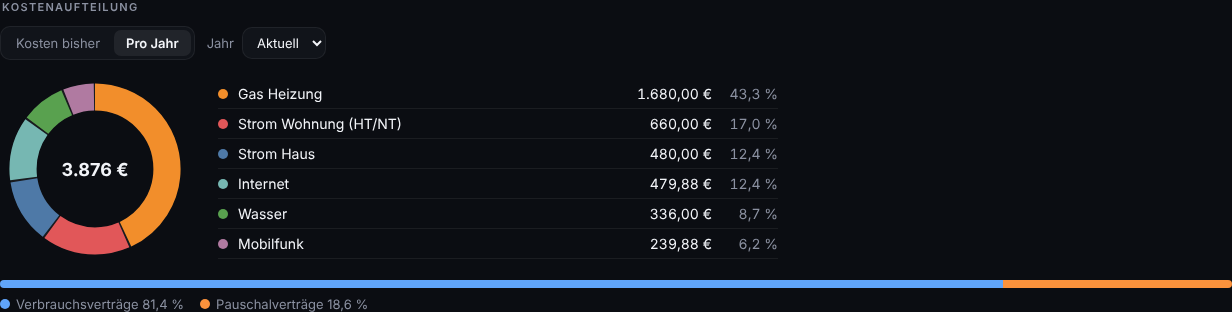
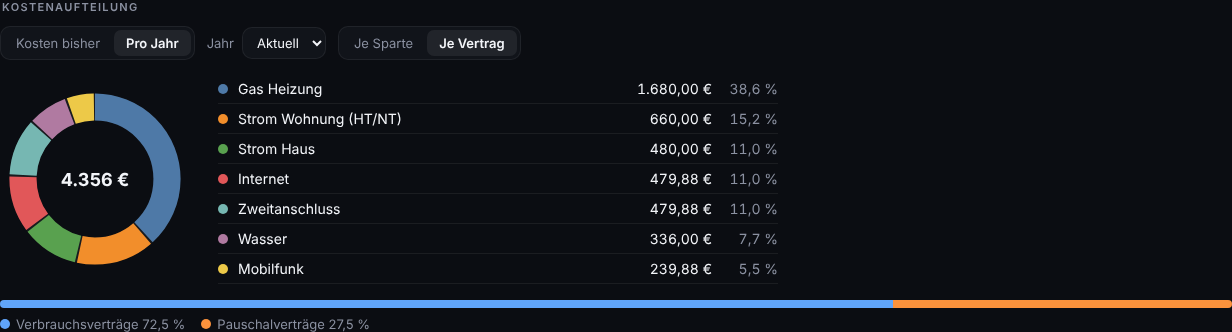
New category Streaming; the cost split adds up contracts of one category (1.28.0-rc.9) (#72)
* New category Streaming (1.28.0-rc.9)

Claude-Session: https://claude.ai/code/session_011wNPKqgRVqpMfNb2Np7XaH

* The cost split adds up contracts of the same category (1.28.0-rc.9)

Claude-Session: https://claude.ai/code/session_011wNPKqgRVqpMfNb2Np7XaH

---------

diff --git a/custom_components/tariffy/frontend/tariffy-panel.js b/custom_components/tariffy/frontend/tariffy-panel.js
@@ -111,7 +111,7 @@ const I18N = {
     onceName: "Description", onceAmount: "Amount (+ credit, − bill)", onceDate: "Date", onceDelete: "Delete item", onceDeleteAsk: "Delete this item?", onceDeleteYes: "Yes, delete", onceSum: "Net",
     termErr_invalid_bezeichnung: "Enter a description.", termErr_invalid_betrag: "Enter an amount other than zero (with a minus for a bill).",
     minTerm: "Minimum term", noticePeriod: "Notice period", cancelBy: "Cancel by", untilDate: "until {d}",
-    chartTitle: "Cost split", chartSoFar: "Cost so far", chartYear: "Per year", chartMetered: "Consumption contracts", chartFlat: "Flat-rate contracts", chartEmpty: "Nothing to show yet.", chartYearLabel: "Year", chartYearAll: "Current", chartYearHint: "The cost of this calendar year; earlier terms count for their days in it.",
+    chartTitle: "Cost split", chartSoFar: "Cost so far", chartYear: "Per year", chartMetered: "Consumption contracts", chartFlat: "Flat-rate contracts", chartEmpty: "Nothing to show yet.", chartBySparte: "By category", chartByContract: "By contract", chartYearLabel: "Year", chartYearAll: "Current", chartYearHint: "The cost of this calendar year; earlier terms count for their days in it.",
     hintCatchUp: "Today {v} behind, made up by the instalment before the contract ends.", hintUsedUp: "Today {v} ahead, used up before the contract ends.",
     grandTotal: "Overall", groupMetered: "Metered contracts", groupFlat: "Flat-rate contracts", noEnd: "No contract end", overTerm: "{v} over the contract term",
     dlgTitleCreate: "New contract", dlgCreated: "The contract was created.",
@@ -136,7 +136,7 @@ const I18N = {
     adviceNone: "No instalment needed: the credit covers the costs until the contract ends", adviceOk: "The instalment fits",
     sparte: {
       electricity: "Electricity", electricity_ht_nt: "Electricity HT/NT", gas: "Gas",
-      water: "Water", internet: "Internet", mobile: "Mobile", insurance: "Insurance", other: "Other",
+      water: "Water", internet: "Internet", mobile: "Mobile", streaming: "Streaming", insurance: "Insurance", other: "Other",
     },
     versicherungsart: {
       car: "Car", house: "Building / house", household: "Household contents", liability: "Liability",
@@ -246,7 +246,7 @@ const I18N = {
     onceName: "Bezeichnung", onceAmount: "Betrag (+ Gutschrift, − Rechnung)", onceDate: "Datum", onceDelete: "Posten löschen", onceDeleteAsk: "Diesen Posten löschen?", onceDeleteYes: "Ja, löschen", onceSum: "Saldo",
     termErr_invalid_bezeichnung: "Trage eine Bezeichnung ein.", termErr_invalid_betrag: "Trage einen Betrag ungleich null ein (mit Minus für eine Rechnung).",
     minTerm: "Mindestlaufzeit", noticePeriod: "Kündigungsfrist", cancelBy: "Kündigen bis", untilDate: "bis {d}",
-    chartTitle: "Kostenaufteilung", chartSoFar: "Kosten bisher", chartYear: "Pro Jahr", chartMetered: "Verbrauchsverträge", chartFlat: "Pauschalverträge", chartEmpty: "Noch nichts darzustellen.", chartYearLabel: "Jahr", chartYearAll: "Aktuell", chartYearHint: "Die Kosten dieses Kalenderjahres; frühere Laufzeiten zählen anteilig für ihre Tage darin.",
+    chartTitle: "Kostenaufteilung", chartSoFar: "Kosten bisher", chartYear: "Pro Jahr", chartMetered: "Verbrauchsverträge", chartFlat: "Pauschalverträge", chartEmpty: "Noch nichts darzustellen.", chartBySparte: "Je Sparte", chartByContract: "Je Vertrag", chartYearLabel: "Jahr", chartYearAll: "Aktuell", chartYearHint: "Die Kosten dieses Kalenderjahres; frühere Laufzeiten zählen anteilig für ihre Tage darin.",
     hintCatchUp: "Heute {v} im Rückstand, bis Vertragsende durch den Abschlag ausgeglichen.", hintUsedUp: "Heute {v} im Plus, bis Vertragsende aufgebraucht.",
     grandTotal: "Gesamt", groupMetered: "Verbrauchsverträge", groupFlat: "Pauschalverträge", noEnd: "Kein Vertragsende", overTerm: "{v} über die Laufzeit",
     dlgTitleCreate: "Neuer Vertrag", dlgCreated: "Der Vertrag wurde angelegt.",
@@ -271,7 +271,7 @@ const I18N = {
     adviceNone: "Kein Abschlag nötig: Das Guthaben deckt die Kosten bis Vertragsende", adviceOk: "Der Abschlag passt",
     sparte: {
       electricity: "Strom", electricity_ht_nt: "Strom HT/NT", gas: "Gas",
-      water: "Wasser", internet: "Internet", mobile: "Mobilfunk", insurance: "Versicherung", other: "Sonstiges",
+      water: "Wasser", internet: "Internet", mobile: "Mobilfunk", streaming: "Streaming", insurance: "Versicherung", other: "Sonstiges",
     },
     versicherungsart: {
       car: "Auto (Kfz)", house: "Gebäude / Haus", household: "Hausrat", liability: "Haftpflicht",
@@ -304,6 +304,10 @@ const ICONS = {
   mobile: [
     ["rect", { x: "7", y: "2.500", width: "10", height: "19", rx: "2.500" }],
     ["path", { d: "M11 18.500h2" }],
+  ],
+  streaming: [
+    ["rect", { x: "3", y: "5", width: "18", height: "14", rx: "3" }],
+    ["path", { d: "M10 9.500v5l4.500-2.500z" }],
   ],
   insurance: [["path", { d: "M12 2.500 20 5.500v6c0 5-3.500 8.500-8 10.500-4.500-2-8-5.500-8-10.500v-6z" }]],
   // actions of the contract list
@@ -408,7 +412,7 @@ section.card .foot { padding-top: 12px; }
   background: var(--tile); border: 1px solid var(--tile-line); color: var(--blue); }
 .badge svg { width: 22px; height: 22px; fill: none; stroke: currentColor; stroke-width: 1.7; stroke-linecap: round; stroke-linejoin: round; }
 .badge.gas { color: var(--orange); } .badge.water { color: #38bdf8; } .badge.electricity,
-.badge.electricity_ht_nt { color: var(--gold); } .badge.internet { color: #a78bfa; } .badge.mobile { color: var(--green); }
+.badge.electricity_ht_nt { color: var(--gold); } .badge.internet { color: #a78bfa; } .badge.mobile { color: var(--green); } .badge.streaming { color: #f472b6; }
 .title { font-size: 17px; font-weight: 700; line-height: 1.2; }
 .meta { font-size: 13px; color: var(--muted); margin-top: 2px; }
 .who { min-width: 0; flex: 1; }
@@ -2289,8 +2293,16 @@ class TariffyPanel extends HTMLElement {
       return isNum(v) && v > 0 ? v : 0;
     };
     const currency = contracts[0].currency || "EUR";
-    const items = contracts.map((c, i) => ({ c, v: value(c), color: CHART_COLORS[i % CHART_COLORS.length] }))
-      .filter((it) => it.v > 0.005).sort((a, b) => b.v - a.v);
+    const grouped = this._costGroup !== "contract"; // by category unless "per contract" is chosen
+    const perContract = contracts.map((c) => ({ label: c.title, sparte: c.sparte, currency: c.currency, n: 1, v: value(c) }))
+      .filter((it) => it.v > 0.005);
+    const merged = new Map(); // contracts of one category count together
+    for (const it of perContract) {
+      const old = merged.get(it.sparte);
+      if (old) { old.v += it.v; old.n += 1; } else merged.set(it.sparte, { ...it, label: this._t("sparte")[it.sparte] || it.sparte });
+    }
+    const items = (grouped ? [...merged.values()] : perContract).sort((a, b) => b.v - a.v)
+      .map((it, i) => ({ ...it, color: CHART_COLORS[i % CHART_COLORS.length] }));
     const total = items.reduce((s, it) => s + it.v, 0);
     const toggle = h("div", { class: "seg", role: "group" }, [["sofar", "chartSoFar"], ["year", "chartYear"]].map(([key, label]) => h("button", {
       class: year === null && basis === key ? "on" : "", type: "button", "aria-pressed": String(year === null && basis === key), text: this._t(label),
@@ -2303,9 +2315,13 @@ class TariffyPanel extends HTMLElement {
         onchange: (ev) => { this._costYear = ev.target.value ? Number(ev.target.value) : null; this._render(); },
       }, [h("option", { value: "", text: this._t("chartYearAll") })].concat(
         years.map((y) => h("option", { value: String(y), text: String(y), selected: y === year ? "" : null }))))) : null;
+    const groupToggle = h("div", { class: "seg", role: "group" }, [["sparte", "chartBySparte"], ["contract", "chartByContract"]].map(([key, label]) => h("button", {
+      class: (grouped ? "sparte" : "contract") === key ? "on" : "", type: "button", "aria-pressed": String((grouped ? "sparte" : "contract") === key), text: this._t(label),
+      onclick: () => { this._costGroup = key; this._render(); },
+    })));
     const card = h("section", { class: "chart" },
       h("h3", { class: "group-title" }, h("span", { text: this._t("chartTitle") })),
-      h("div", { class: "chart-ctl" }, toggle, picker),
+      h("div", { class: "chart-ctl" }, toggle, picker, groupToggle),
       year !== null ? h("p", { class: "hint", text: this._t("chartYearHint") }) : null);
     if (!total) {
       card.appendChild(h("div", { class: "hint", text: this._t("chartEmpty") }));
@@ -2326,14 +2342,14 @@ class TariffyPanel extends HTMLElement {
     const ring = svg("svg", { viewBox: "0 0 42 42", class: "cs-ring", role: "img", "aria-label": this._t("chartTitle") },
       svg("circle", { cx: "21", cy: "21", r: "15.9155", fill: "none", stroke: "rgba(255,255,255,.06)", "stroke-width": "6" }), slices);
     const kinds = [["chartMetered", (c) => METERED.has(c.sparte)], ["chartFlat", (c) => !METERED.has(c.sparte)]]
-      .map(([label, test]) => ({ label, v: items.filter((it) => test(it.c)).reduce((s, it) => s + it.v, 0) })).filter((k) => k.v > 0);
+      .map(([label, test]) => ({ label, v: items.filter((it) => test(it)).reduce((s, it) => s + it.v, 0) })).filter((k) => k.v > 0);
     card.appendChild(h("div", { class: "chart-body" },
       h("div", { class: "cs-ringwrap" }, ring,
         h("div", { class: "cs-mid" }, h("b", { text: this._money(total, currency, { digits: 0 }) }))),
       h("ul", { class: "cs-legend" }, items.map((it) => h("li", {},
         h("span", { class: "cs-dot", style: `background:${it.color}` }),
-        h("span", { class: "nm", text: it.c.title }),
-        h("span", { class: "val", text: this._money(it.v, it.c.currency, { digits: 2 }) }),
+        h("span", { class: "nm", text: it.n > 1 ? `${it.label} (${it.n})` : it.label }),
+        h("span", { class: "val", text: this._money(it.v, it.currency, { digits: 2 }) }),
         h("span", { class: "pct", text: percent(it.v) }))))));
     if (kinds.length > 1) {
       card.appendChild(h("div", { class: "kindbar" },

diff --git a/tests/test_reconfigure.py b/tests/test_reconfigure.py
@@ -85,7 +85,7 @@ async def test_the_form_offers_the_name_first_with_the_current_one(frontend_env,
     assert str(first) == "name" and first.default() == "Test"
 
 
-@pytest.mark.parametrize("sparte", ["electricity", "gas", "internet", "mobile"])
+@pytest.mark.parametrize("sparte", ["electricity", "gas", "internet", "mobile", "streaming"])
 async def test_the_name_can_be_changed(frontend_env, contract, hass, sparte):  # noqa: F811
     from homeassistant.helpers import device_registry as dr, entity_registry as er
 

diff --git a/tests/test_insurance.py b/tests/test_insurance.py
@@ -149,7 +149,7 @@ async def test_a_car_insurance_may_leave_the_car_details_empty(hass):
     assert result["data"]["versicherungsart"] == "car"
 
 
-@pytest.mark.parametrize("sparte", ["internet", "mobile", "other"])
+@pytest.mark.parametrize("sparte", ["internet", "mobile", "streaming", "other"])
 async def test_other_flat_rate_contracts_go_straight_to_the_costs(hass, sparte):
     result = await _start(hass, sparte)
     assert result["step_id"] == "pauschal"

diff --git a/custom_components/tariffy/const.py b/custom_components/tariffy/const.py
@@ -238,6 +238,7 @@ SPARTEN = [
     "water",
     "internet",
     "mobile",
+    "streaming",
     SPARTE_INSURANCE,
     "other",
 ]

diff --git a/docs/wiki/Panel.md b/docs/wiki/Panel.md
@@ -19,7 +19,7 @@ Das Panel folgt der Sprache von Home Assistant (Deutsch, sonst Englisch) und pas
 | Ansicht | Inhalt |
 |---|---|
 | **Übersicht** | Oben vier Kacheln: die **Abschläge pro Monat** (mit Jahreswert und einem Balken, der Verbrauchs- und Pauschalverträge aufteilt), die **Kosten bisher** (mit den bis heute fälligen Abschlägen und dem Saldo), die **Prognose zum Vertragsende** (mit der Prognose je Vertrag, die schlechteste zuerst; nur Verträge mit Verbrauchsmessung) und die **nächsten Termine** (Kündigungsfrist, Wechsel, Vertragsende). Darunter zwei Gruppen mit je einer Karte pro Vertrag: **Verbrauchsverträge** (Strom, Gas, Wasser) und **Pauschalverträge** (Internet, Mobilfunk, Versicherung, Sonstiges). Die Karten sind nach dem Zustand getönt (grün Guthaben, rot Nachzahlung, orange Kündigung fällig). Eine Verbrauchskarte zeigt die Prognose zum Vertragsende als große Zahl neben dem Laufzeit-Ring, höchstens drei Zahlen (Kosten bisher, Saldo heute, Verbrauch), die gezahlten Abschläge gegen die Kosten, die Restlaufzeit und Hinweise. Zeigen der Saldo heute und die Prognose in verschiedene Richtungen (Rückstand heute, Guthaben zum Vertragsende), steht darunter, warum. Eine Pauschalkarte zeigt den Abschlag pro Monat, die Kosten bisher und das Vertragsende samt Laufzeit-Balken, ohne Ring und ohne Verbrauch. In der Übersicht gibt es keine Bearbeitungs-Aktionen. |
-| **Kosten** | Oben die **Kostenaufteilung**: ein Ringdiagramm mit dem Anteil jedes Vertrags (umschaltbar zwischen **Kosten bisher** und **Pro Jahr**; die **Jahresauswahl** zeigt die Kosten eines Kalenderjahres für alle Jahre mit Daten, auch aus der Historie und von archivierten Verträgen, wobei eine Laufzeit über mehrere Jahre anteilig nach Tagen zählt) und ein Balken für die Aufteilung zwischen Verbrauchs- und Pauschalverträgen. Darunter zwei Tabellen wie in der Übersicht. **Verbrauchsverträge:** Kosten bisher, Saldo heute, Saldo zum Vertragsende, Abschlag und empfohlener Abschlag. **Pauschalverträge:** Kosten bisher (die bis heute fälligen Abschläge), Restlaufzeit, Vertragsende und Abschlag; Saldo und Prognose gibt es dort nicht. Beide Tabellen haben dasselbe Spaltenraster, „Kosten bisher“ und „Abschlag“ stehen also untereinander. Jede Tabelle hat eine Summenzeile, darunter steht die Gesamtsumme. |
+| **Kosten** | Oben die **Kostenaufteilung**: ein Ringdiagramm mit dem Anteil jeder **Sparte** (Verträge gleicher Sparte werden zusammengezählt, der Umschalter **Je Vertrag** zeigt jeden einzeln; umschaltbar zwischen **Kosten bisher** und **Pro Jahr**; die **Jahresauswahl** zeigt die Kosten eines Kalenderjahres für alle Jahre mit Daten, auch aus der Historie und von archivierten Verträgen, wobei eine Laufzeit über mehrere Jahre anteilig nach Tagen zählt) und ein Balken für die Aufteilung zwischen Verbrauchs- und Pauschalverträgen. Darunter zwei Tabellen wie in der Übersicht. **Verbrauchsverträge:** Kosten bisher, Saldo heute, Saldo zum Vertragsende, Abschlag und empfohlener Abschlag. **Pauschalverträge:** Kosten bisher (die bis heute fälligen Abschläge), Restlaufzeit, Vertragsende und Abschlag; Saldo und Prognose gibt es dort nicht. Beide Tabellen haben dasselbe Spaltenraster, „Kosten bisher“ und „Abschlag“ stehen also untereinander. Jede Tabelle hat eine Summenzeile, darunter steht die Gesamtsumme. |
 | **Verträge** | In denselben zwei Gruppen pro Vertrag aufklappbare Details: Vertragsdaten, Preise, Verbrauch, Empfehlungen. Hier stehen auch **alle Aktionen, die einen Vertrag ändern**, als Symbole in jeder Zeile (Kalender: Folgevertrag planen oder bearbeiten, Stift: Vertrag bearbeiten) und oben der Button **Neuer Vertrag** (nur Administratoren). |
 | **Historie** | Die **früheren Laufzeiten** jedes Vertrags (Zeitraum, Anbieter, Tarif, Abschlag, Kosten, Verbrauch und Saldo am Ende) und die **archivierten Verträge**. Wer keinen Folgevertrag hatte und keinen Vertrag archiviert hat, sieht hier zunächst nur einen kurzen Hinweis. |
 | **Sicherung** | Nur für Administratoren: **Sicherung herunterladen**, **aus Datei wiederherstellen** und die **gelöschten Verträge** der letzten 30 Tage zurückholen (siehe unten). |
@@ -57,7 +57,7 @@ Die normalen Backups von Home Assistant sichern Tariffy schon vollständig mit. 
 
 ## Pauschalvertrag verlängern
 
-Bei Verträgen ohne Verbrauch (Versicherung, Internet, Mobilfunk, Sonstiges), die ein **Vertragsende** haben, steht in jeder Zeile des Tabs **Verträge** ein Symbol **Vertrag verlängern** (zwei Pfeile im Kreis, nur Administratoren). Der Dialog schlägt vor: Beginn am Tag nach dem bisherigen Ende, neues Ende ein Jahr später, Zahlweise und Betrag wie bisher. Du trägst zum Beispiel den neuen Beitrag ein, und der Dialog zeigt sofort, um wie viel Prozent der Vertrag teurer oder günstiger wird (verglichen pro Monat). Mit **Verlängern** passiert Folgendes:
+Bei Verträgen ohne Verbrauch (Versicherung, Internet, Mobilfunk, Streaming, Sonstiges), die ein **Vertragsende** haben, steht in jeder Zeile des Tabs **Verträge** ein Symbol **Vertrag verlängern** (zwei Pfeile im Kreis, nur Administratoren). Der Dialog schlägt vor: Beginn am Tag nach dem bisherigen Ende, neues Ende ein Jahr später, Zahlweise und Betrag wie bisher. Du trägst zum Beispiel den neuen Beitrag ein, und der Dialog zeigt sofort, um wie viel Prozent der Vertrag teurer oder günstiger wird (verglichen pro Monat). Mit **Verlängern** passiert Folgendes:
 
 - Die bisherige Laufzeit kommt in die **Historie** (Zeitraum, Anbieter, Tarif, Abschlag, gezahlte Abschläge). So entsteht pro Jahr ein Eintrag und man sieht, wie der Beitrag steigt.
 - Der Vertrag läuft mit dem neuen Beginn, Ende und Betrag weiter. Anbieter, Tarif, Kundennummer und alles andere bleiben.
@@ -96,7 +96,7 @@ Ein Posten zählt ab seinem Datum (ohne Datum sofort). Er verändert den **Saldo
 
 - Bestätigte Erinnerungen, „Benachrichtigung gesendet" und der eingefrorene Verbrauch der letzten Laufzeit bleiben beim Bearbeiten erhalten. Die Kündigungs-Erinnerung beginnt nur dann neu, wenn sich das Vertragsende oder die Vorlaufzeit ändert.
 - Ändert sich der Abschlag, merkt sich Tariffy wie bisher das Änderungsdatum, damit die Berechnung für die Zeit davor mit dem alten Abschlag weiterläuft.
-- **Pauschalverträge (Internet, Mobilfunk, Versicherung, Sonstiges):** Im Kosten-Schritt wählst du die **Zahlweise** (monatlich, vierteljährlich, halbjährlich, jährlich) und trägst den **Betrag pro Zahlung** ein, bei einer Versicherung also zum Beispiel den Jahresbeitrag. Tariffy rechnet intern weiter mit dem Betrag pro Monat (600 € jährlich sind 50 € im Monat); bestehende Verträge sind monatlich und bleiben unverändert. Eine Änderung nur der Zahlweise gilt nicht als Preisänderung. Steigt der Beitrag, trägst du den neuen Betrag ein (gilt ab dem Tag des Speicherns) oder verlängerst den Vertrag.
+- **Pauschalverträge (Internet, Mobilfunk, Streaming, Versicherung, Sonstiges):** Im Kosten-Schritt wählst du die **Zahlweise** (monatlich, vierteljährlich, halbjährlich, jährlich) und trägst den **Betrag pro Zahlung** ein, bei einer Versicherung also zum Beispiel den Jahresbeitrag. Tariffy rechnet intern weiter mit dem Betrag pro Monat (600 € jährlich sind 50 € im Monat); bestehende Verträge sind monatlich und bleiben unverändert. Eine Änderung nur der Zahlweise gilt nicht als Preisänderung. Steigt der Beitrag, trägst du den neuen Betrag ein (gilt ab dem Tag des Speicherns) oder verlängerst den Vertrag.
 - **Kosten bisher bei Zahlung im Voraus:** Wird nicht monatlich gezahlt (vierteljährlich, halbjährlich, jährlich), zählen die **Abbuchungen**, nicht ein monatlicher Anteil: Eine Versicherung, die kurz nach Beginn mit 896,63 € bezahlt wurde, zeigt 896,63 € bei „Kosten bisher“, nach einem Jahr die zweite Abbuchung dazu. Die erste Abbuchung nimmt Tariffy am **Vertragsbeginn** an; das tatsächliche Datum trägst du im Feld **Erste Abbuchung am** ein, die weiteren folgen im Abstand der Zahlweise. Die Vertragsdetails zeigen die erste und die **nächste Zahlung**. Abbuchungen nach dem Vertragsende gehören schon zur nächsten Laufzeit. Bei monatlicher Zahlweise bleibt alles wie bisher.
 - **Der Name** des Vertrags steht als erstes Feld im ersten Schritt und lässt sich ändern (leer lassen = der Name bleibt). Er ändert den Namen des Vertrags und seines Geräts; Sensoren, Entity-IDs und Vertragsdaten bleiben.
 - Ein leeres optionales Feld entfernt den Wert.

diff --git a/docs/wiki/English.md b/docs/wiki/English.md
@@ -2,7 +2,7 @@
 
 ## Features
 
-- **Categories:** Electricity, Gas, Water, Internet, Mobile, Insurance, Other
+- **Categories:** Electricity, Gas, Water, Internet, Mobile, Streaming, Insurance, Other
 - **Real consumption tracking** – connect any HA sensor as your meter; Tariffy reads the meter value at contract start from Long-Term Statistics and calculates consumption since contract start and projected annual usage
 - **Real billing forecast** – forecast based on actual measured consumption (credit or surcharge)
 - **Last contract period consumption** – frozen at tariff switch; used to calculate the recommended monthly payment for the new period
@@ -195,7 +195,7 @@ The **Tariffy panel** is a page of its own in the Home Assistant sidebar. It sho
 | View | Content |
 |---|---|
 | **Overview** | Four tiles on top: the **monthly instalments** (with the yearly figure and a bar that splits metered and flat-rate contracts), the **cost so far** (with the instalments due until today and the balance), the **forecast at contract end** (per contract, the worst first; contracts with consumption metering only) and the **next dates** (cancellation deadline, switch, contract end); below two groups with one card per contract: **metered contracts** (electricity, gas, water) and **flat-rate contracts** (internet, mobile, insurance, other). The cards are tinted by their state (green credit, red balance due, orange cancellation due). A metered card shows the forecast at contract end as the big figure next to the progress ring, at most three figures (cost so far, balance today, consumption), instalments paid vs. cost, the remaining term and notes. If the balance today and the forecast point in different directions (behind today, credit at the end), a line says why. A flat-rate card shows the monthly instalment, the cost so far and the contract end with a term bar, without ring and consumption. The overview has no editing actions. |
-| **Costs** | At the top the **cost split**: a ring chart with each contract's share (switchable between **Cost so far** and **Per year**; the **year selection** shows the cost of a calendar year for every year with data, also from the history and from archived contracts, a term spanning several years counting for its days in each) and a bar for the split between consumption and flat-rate contracts. Below, two tables like the overview. **Metered contracts:** cost so far, balance today, balance at contract end, instalment and recommended instalment. **Flat-rate contracts:** cost so far (the instalments due until today), remaining term, contract end and instalment; there is no balance or forecast. Both tables share one column grid, so "cost so far" and "instalment" sit exactly below each other. Each table has a total row, the overall total sits below |
+| **Costs** | At the top the **cost split**: a ring chart with each category's share (contracts of one category are added up, the switch **By contract** shows each one on its own; switchable between **Cost so far** and **Per year**; the **year selection** shows the cost of a calendar year for every year with data, also from the history and from archived contracts, a term spanning several years counting for its days in each) and a bar for the split between consumption and flat-rate contracts. Below, two tables like the overview. **Metered contracts:** cost so far, balance today, balance at contract end, instalment and recommended instalment. **Flat-rate contracts:** cost so far (the instalments due until today), remaining term, contract end and instalment; there is no balance or forecast. Both tables share one column grid, so "cost so far" and "instalment" sit exactly below each other. Each table has a total row, the overall total sits below |
 | **Contracts** | Expandable details per contract, in the same two groups: contract data, prices, consumption, recommendations. This is also where **everything that changes a contract** lives, as icons in each row (calendar: plan or edit the next contract, pencil: edit the contract) and the button **New contract** at the top (administrators only) |
 | **History** | The **earlier terms** of every contract (term, provider, tariff, instalment, cost, consumption and balance at the end) and the **archived contracts** |
 | **Backup** | Administrators only: **download a backup**, **restore from a file** and bring back the **deleted contracts** of the last 30 days (see below) |

diff --git a/README.md b/README.md
@@ -37,7 +37,7 @@ On a phone the cards turn into expandable rows:
 
 ### Features
 
-- **Categories:** Electricity, Gas, Water, Internet, Mobile, Insurance, Other
+- **Categories:** Electricity, Gas, Water, Internet, Mobile, Streaming, Insurance, Other
 - **Real consumption tracking** – connect any HA sensor as your meter; Tariffy reads the meter value at contract start from Long-Term Statistics and calculates consumption since contract start and projected annual usage
 - **Real billing forecast** – forecast based on actual measured consumption (credit or surcharge)
 - **Last contract period consumption** – frozen at tariff switch; used to calculate the recommended monthly payment for the new period
@@ -273,7 +273,7 @@ Auf dem Handy werden die Karten zu aufklappbaren Zeilen:
 
 ### Features
 
-- **Sparten:** Strom, Gas, Wasser, Internet, Mobilfunk, Versicherung, Sonstiges
+- **Sparten:** Strom, Gas, Wasser, Internet, Mobilfunk, Streaming, Versicherung, Sonstiges
 - **Echte Verbrauchsmessung** – beliebigen HA-Sensor als Zähler einbinden; Tariffy liest den Stand zum Vertragsbeginn aus den Long-Term Statistics und berechnet Verbrauch seit Vertragsbeginn sowie hochgerechneten Jahresverbrauch
 - **Abrechnungsprognose (real)** – Prognose basierend auf dem tatsächlich gemessenen Verbrauch (Guthaben oder Nachzahlung)
 - **Verbrauch letzte Vertragslaufzeit** – wird beim Tarifwechsel eingefroren; Basis für den empfohlenen Abschlag
@@ -299,7 +299,7 @@ Auf dem Handy werden die Karten zu aufklappbaren Zeilen:
 | Feld | Pflicht | Beschreibung |
 |------|---------|-------------|
 | Bezeichnung | ✅ | Anzeigename (z. B. „Strom Haus") |
-| Sparte | ✅ | Strom, Strom (Zweizählertarif HT/NT), Gas, Wasser, Internet, Mobilfunk, Versicherung, Sonstiges |
+| Sparte | ✅ | Strom, Strom (Zweizählertarif HT/NT), Gas, Wasser, Internet, Mobilfunk, Streaming, Versicherung, Sonstiges |
 | Anbieter | ✅ | Name des Anbieters |
 | Kundennummer | – | Kundennummer beim Anbieter |
 | Tarifname | – | Bezeichnung des Tarifs |
@@ -356,7 +356,7 @@ Wie Strom, zusätzlich:
 | Abwassergebühr | – | Betrag je nach gewähltem Typ |
 | Zählernummer | – | Für Dokumentation |
 
-#### Schritt 2d – Pauschalverträge (Internet, Mobilfunk, Versicherung, …)
+#### Schritt 2d – Pauschalverträge (Internet, Mobilfunk, Streaming, Versicherung, …)
 
 **Zahlweise und Betrag:** Du wählst die **Zahlweise** (monatlich, vierteljährlich, halbjährlich, jährlich) und trägst den **Betrag pro Zahlung** ein; Tariffy rechnet intern mit dem Betrag pro Monat. Bei nicht monatlicher Zahlweise zählen die **Abbuchungen** zu den Kosten bisher; die erste nimmt Tariffy am Vertragsbeginn an, das echte Datum trägst du bei **Erste Abbuchung am** ein.
 

diff --git a/docs/wiki/Konfiguration.md b/docs/wiki/Konfiguration.md
@@ -5,7 +5,7 @@
 | Feld | Pflicht | Beschreibung |
 |------|---------|-------------|
 | Bezeichnung | ✅ | Anzeigename (z. B. „Strom Haus") |
-| Sparte | ✅ | Strom, Strom (Zweizählertarif HT/NT), Gas, Wasser, Internet, Mobilfunk, Versicherung, Sonstiges |
+| Sparte | ✅ | Strom, Strom (Zweizählertarif HT/NT), Gas, Wasser, Internet, Mobilfunk, Streaming, Versicherung, Sonstiges |
 | Anbieter | ✅ | Name des Anbieters |
 | Kundennummer | – | Kundennummer beim Anbieter |
 | Tarifname | – | Bezeichnung des Tarifs |
@@ -62,7 +62,7 @@ Wie Strom, zusätzlich:
 | Abwassergebühr | – | Betrag je nach gewähltem Typ |
 | Zählernummer | – | Für Dokumentation |
 
-## Schritt 2d – Pauschalverträge (Internet, Mobilfunk, Versicherung, …)
+## Schritt 2d – Pauschalverträge (Internet, Mobilfunk, Streaming, Versicherung, …)
 
 **Zahlweise und Betrag:** Du wählst die **Zahlweise** (monatlich, vierteljährlich, halbjährlich, jährlich) und trägst den **Betrag pro Zahlung** ein; Tariffy rechnet intern mit dem Betrag pro Monat. Bei nicht monatlicher Zahlweise zählen die **Abbuchungen** zu den Kosten bisher; die erste nimmt Tariffy am Vertragsbeginn an, das echte Datum trägst du bei **Erste Abbuchung am** ein.
 

diff --git a/custom_components/tariffy/CHANGELOG.md b/custom_components/tariffy/CHANGELOG.md
@@ -7,6 +7,15 @@ das Projekt folgt [Semantic Versioning](https://semver.org/lang/de/).
 
 ## [Unreleased]
 
+## [1.28.0-rc.9] - 2026-11-13
+
+Neunter Release Candidate von 1.28.0. Bitte melde Probleme mit dem Bug-Formular und nenne diese genaue Version.
+
+### Added
+
+- **Die Kostenaufteilung zählt Verträge gleicher Sparten zusammen.** Die Grafik zeigt jetzt eine Scheibe je Sparte (zum Beispiel alle Streaming-Abos zusammen, mit der Zahl der Verträge in Klammern); mit dem Umschalter "Je Vertrag" erscheint wieder jeder Vertrag einzeln.
+- **Neue Sparte "Streaming"** für Abos wie Musik, Video oder Hörbücher. Sie ist eine Pauschal-Sparte wie Internet und Mobilfunk (Zahlweise, erste Abbuchung, Verlängern, Historie, Gesamtkosten) und hat im Panel ein eigenes Symbol und eine eigene Farbe. Bestehende Verträge bleiben wie sie sind; um ein Abo von "Sonstiges" nach "Streaming" zu holen, bearbeitest du den Vertrag und änderst die Sparte.
+
 ## [1.28.0-rc.8] - 2026-11-13
 
 Achter Release Candidate von 1.28.0. Bitte melde Probleme mit dem Bug-Formular und nenne diese genaue Version.

diff --git a/CHANGELOG.md b/CHANGELOG.md
@@ -7,6 +7,15 @@ and this project adheres to [Semantic Versioning](https://semver.org/spec/v2.0.0
 
 ## [Unreleased]
 
+## [1.28.0-rc.9] - 2026-11-13
+
+Ninth release candidate of 1.28.0. Please report problems with the bug report form and mention this exact version.
+
+### Added
+
+- **The cost split adds up contracts of the same category.** The chart now shows one slice per category (for example all streaming subscriptions together, with the number of contracts in brackets); the switch "By contract" shows every contract on its own again.
+- **New category "Streaming"** for subscriptions such as music, video or audio books. It is a flat-rate category like internet and mobile (payment interval, first debit, renewing, history, total cost), with its own icon and colour in the panel. Existing contracts stay as they are; to move a subscription from "Other" to "Streaming", edit the contract and change the category.
+
 ## [1.28.0-rc.8] - 2026-11-13
 
 Eighth release candidate of 1.28.0. Please report problems with the bug report form and mention this exact version.

diff --git a/docs/wiki/Home.md b/docs/wiki/Home.md
@@ -17,7 +17,7 @@ Quellcode, Releases und Changelog: [weskona/tariffy](https://github.com/weskona/
 
 ## Features
 
-- **Sparten:** Strom, Gas, Wasser, Internet, Mobilfunk, Versicherung, Sonstiges
+- **Sparten:** Strom, Gas, Wasser, Internet, Mobilfunk, Streaming, Versicherung, Sonstiges
 - **Echte Verbrauchsmessung** – beliebigen HA-Sensor als Zähler einbinden; Tariffy liest den Stand zum Vertragsbeginn aus den Long-Term Statistics und berechnet Verbrauch seit Vertragsbeginn sowie hochgerechneten Jahresverbrauch
 - **Abrechnungsprognose (real)** – Prognose basierend auf dem tatsächlich gemessenen Verbrauch (Guthaben oder Nachzahlung)
 - **Verbrauch letzte Vertragslaufzeit** – wird beim Tarifwechsel eingefroren; Basis für den empfohlenen Abschlag
